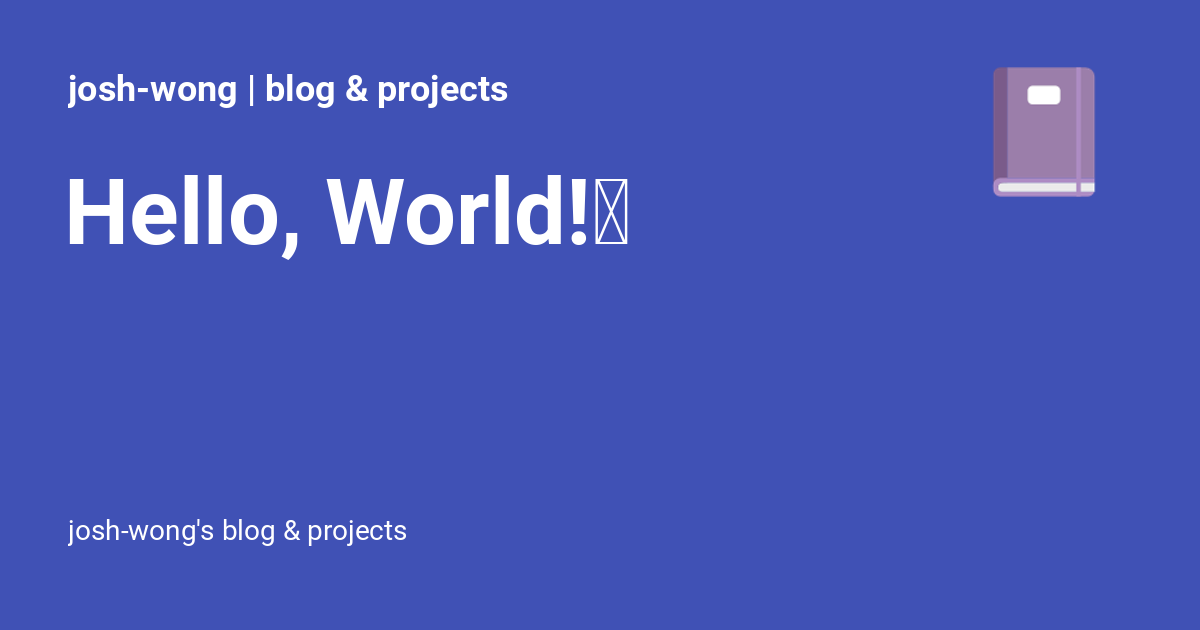
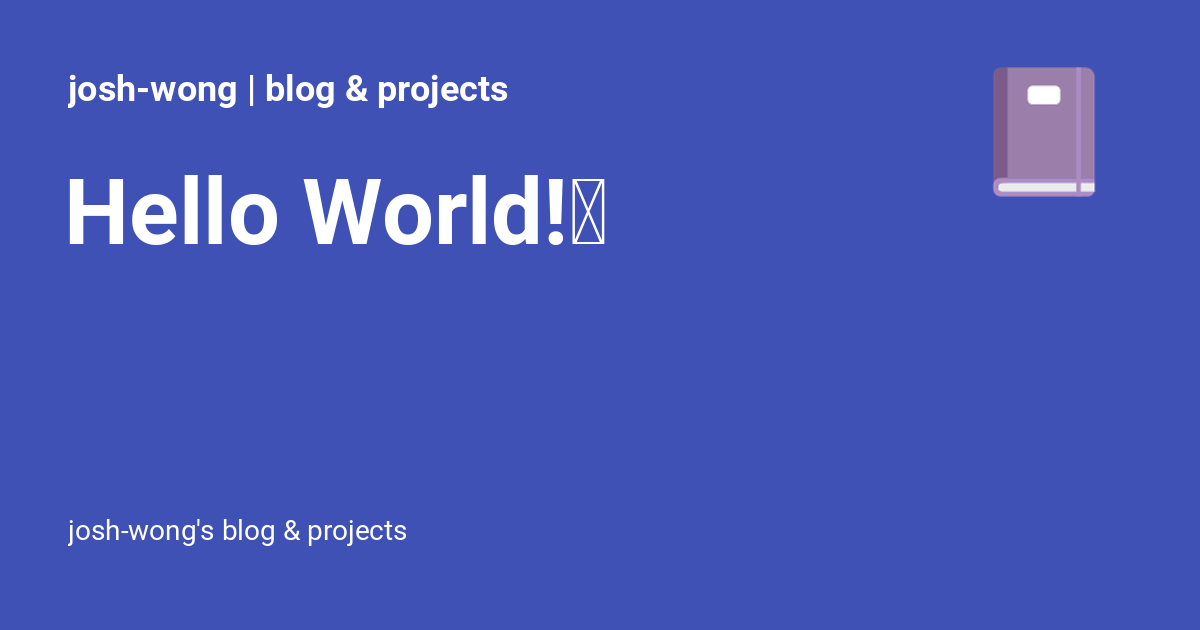
Deployed d260262 with MkDocs version: 1.4.2

Changed region(s): [[0.2158, 0.2714, 0.5242, 0.4222]]

diff --git a/blog/2023/01/month-in-review-december/index.html b/blog/2023/01/month-in-review-december/index.html
@@ -1517,9 +1517,9 @@
 <p><strong>Disclosure:</strong> Some of the links in this post are affiliate links. If you go through those links to make a purchase, I may earn a commission. Note that I only link to products and services if I am actively using them and am greatly satisfied with my experience.</p>
 </div>
 <h2 id="wrote-a-post-for-the-mercari-engineering-blog">Wrote a post for the Mercari Engineering Blog<a class="headerlink" href="#wrote-a-post-for-the-mercari-engineering-blog" title="Permanent link">&para;</a></h2>
-<p>As part of the annual Advent Calendar series of posts on the <a href="https://engineering.mercari.com/en/blog/">Mercari Engineering Blog</a>, I wrote about personal <abbr title="A collection of methods relating to creating, sharing, using, and managing the knowledge and information of an organization">knowledge management</abbr> (<abbr title="A collection of methods relating to creating, sharing, using, and managing knowledge and information for personal growth and benefit &lt;!-- Definition modified from the &quot;knowledge management&quot; Wikipedia article --&gt;">PKM</abbr>):</p>
+<p>As part of the annual Advent Calendar series of posts on the <a href="https://engineering.mercari.com/en/blog/">Mercari Engineering Blog</a>, I wrote about personal <abbr title="A collection of methods relating to creating, sharing, using, and managing the knowledge and information">knowledge management</abbr> (PKM):</p>
 <ul>
-<li><a href="https://engineering.mercari.com/en/blog/entry/20221202-capturing-and-applying-knowledge-through-a-pkm-practice/">Capturing and applying knowledge through a personal <abbr title="A collection of methods relating to creating, sharing, using, and managing the knowledge and information of an organization">knowledge management</abbr> practice</a></li>
+<li><a href="https://engineering.mercari.com/en/blog/entry/20221202-capturing-and-applying-knowledge-through-a-pkm-practice/">Capturing and applying knowledge through a personal <abbr title="A collection of methods relating to creating, sharing, using, and managing the knowledge and information">knowledge management</abbr> practice</a></li>
 </ul>
 <p>Let me know what you think!</p>
 <h2 id="bought-a-washer-and-dryer">Bought a washer and dryer<a class="headerlink" href="#bought-a-washer-and-dryer" title="Permanent link">&para;</a></h2>
@@ -1533,7 +1533,7 @@
 <figure>
 <p><img alt="Panasonic NA-LX127BL-W washer and dryer machine after installation" src="../../../assets/assets/images/2023-01-03-panasonic-na-lx127bl-w-washer-and-dryer-machine.jpg" />
   </p>
-<figcaption>Panasonic NA-LX127BL-W washer and dryer machine after installation</figcaption>
+<figcaption>Panasonic NA-LX127BL-W washer and dryer<br /> machine after installation</figcaption>
 </figure>
 <p>Overall, we're very happy with the Panasonic NA-LX127BL-W washer and dryer machine. We've reduced how much time we spend hang drying clothes and saved a lot of time waiting for those clothes to dry. Our clothes also smell much more pleasant and feel a lot softer!</p>
 <h2 id="tried-resurrecting-a-problematic-hard-drive">Tried resurrecting a problematic hard drive<a class="headerlink" href="#tried-resurrecting-a-problematic-hard-drive" title="Permanent link">&para;</a></h2>
@@ -1572,7 +1572,7 @@
 <figure>
 <p><img alt="Friend's disassembled Western Digital Elements external hard drive" src="../../../assets/assets/images/2023-01-03-western-digital-elements-broken-hard-drive.jpg" />
   </p>
-<figcaption>Friend's disassembled Western Digital Elements external hard drive</figcaption>
+<figcaption>Friend's disassembled Western Digital Elements<br /> external hard drive</figcaption>
 </figure>
 <p>Unfortunately, I was out of ideas to resolve the connection to the faulty hard drive. At this point, the only way to copy the data on the hard drive is to contact a professional who could remove the disk from its enclosure and further troubleshoot the issue.</p>
 <!-- Most of the following definitions are courtesy of Wikipedia, unless otherwise noted. -->

diff --git a/blog/archive/2022/index.html b/blog/archive/2022/index.html
@@ -1482,9 +1482,9 @@
     </div>
   </header>
   <div class="md-post__content md-typeset">
-    <h2 id="key-points-about-knowledge-management-from-the-art-of-readable-code"><a class="toclink" href="../../2022/11/key-points-about-knowledge-management-from-the-art-of-readable-code/">Key points about <abbr title="A collection of methods relating to creating, sharing, using, and managing the knowledge and information of an organization">knowledge management</abbr> from "The Art of Readable Code"</a></h2>
+    <h2 id="key-points-about-knowledge-management-from-the-art-of-readable-code"><a class="toclink" href="../../2022/11/key-points-about-knowledge-management-from-the-art-of-readable-code/">Key points about <abbr title="A collection of methods relating to creating, sharing, using, and managing the knowledge and information">knowledge management</abbr> from "The Art of Readable Code"</a></h2>
 <p>This month, I read <a href="https://amzn.to/3TyC4CJ" target="_blank">The Art of Readable Code: Simple and Practical Techniques for Writing Better Code</a> on Kindle.</p>
-<p><em><strong>I wish I'd read this book years ago.</strong></em> As a <abbr title="A professional information communicator whose task is to transfer information between two or more parties">technical writer</abbr> and <abbr title="A collection of methods relating to creating, sharing, using, and managing the knowledge and information of an organization">knowledge management</abbr> specialist, the first part focuses on <abbr title="A collection of methods relating to creating, sharing, using, and managing the knowledge and information of an organization">knowledge management</abbr> and best practices for <abbr title="Any communicable material that is used to describe, explain or instruct regarding some attributes of an object, system or procedure">documentation</abbr> within code. I found those topics interesting, especially since coding is only a hobby of mine and not a daily work activity.</p>
+<p><em><strong>I wish I'd read this book years ago.</strong></em> As a <abbr title="A professional information communicator whose task is to transfer information between two or more parties">technical writer</abbr> and <abbr title="A collection of methods relating to creating, sharing, using, and managing the knowledge and information">knowledge management</abbr> specialist, the first part focuses on <abbr title="A collection of methods relating to creating, sharing, using, and managing the knowledge and information">knowledge management</abbr> and best practices for <abbr title="Any communicable material that is used to describe, explain or instruct regarding some attributes of an object, system or procedure">documentation</abbr> within code. I found those topics interesting, especially since coding is only a hobby of mine and not a daily work activity.</p>
 
     <nav class="md-post__action">
       <a href="../../2022/11/key-points-about-knowledge-management-from-the-art-of-readable-code/">
@@ -1679,7 +1679,7 @@
     </div>
   </header>
   <div class="md-post__content md-typeset">
-    <h2 id="hello-world"><a class="toclink" href="../../2022/10/hello-world/"><abbr title="A phrase used to illustrate a language's basic syntax when programming">Hello, World</abbr>!🌏</a></h2>
+    <h2 id="hello-world"><a class="toclink" href="../../2022/10/hello-world/"><abbr title="A phrase used to illustrate a language's basic syntax when programming">Hello World</abbr>!🌏</a></h2>
 <p>This is my first blog post!✍🏻</p>
 
     <nav class="md-post__action">

diff --git a/blog/index.html b/blog/index.html
@@ -1522,9 +1522,9 @@
     </div>
   </header>
   <div class="md-post__content md-typeset">
-    <h2 id="key-points-about-knowledge-management-from-the-art-of-readable-code"><a class="toclink" href="2022/11/key-points-about-knowledge-management-from-the-art-of-readable-code/">Key points about <abbr title="A collection of methods relating to creating, sharing, using, and managing the knowledge and information of an organization">knowledge management</abbr> from "The Art of Readable Code"</a></h2>
+    <h2 id="key-points-about-knowledge-management-from-the-art-of-readable-code"><a class="toclink" href="2022/11/key-points-about-knowledge-management-from-the-art-of-readable-code/">Key points about <abbr title="A collection of methods relating to creating, sharing, using, and managing the knowledge and information">knowledge management</abbr> from "The Art of Readable Code"</a></h2>
 <p>This month, I read <a href="https://amzn.to/3TyC4CJ" target="_blank">The Art of Readable Code: Simple and Practical Techniques for Writing Better Code</a> on Kindle.</p>
-<p><em><strong>I wish I'd read this book years ago.</strong></em> As a <abbr title="A professional information communicator whose task is to transfer information between two or more parties">technical writer</abbr> and <abbr title="A collection of methods relating to creating, sharing, using, and managing the knowledge and information of an organization">knowledge management</abbr> specialist, the first part focuses on <abbr title="A collection of methods relating to creating, sharing, using, and managing the knowledge and information of an organization">knowledge management</abbr> and best practices for <abbr title="Any communicable material that is used to describe, explain or instruct regarding some attributes of an object, system or procedure">documentation</abbr> within code. I found those topics interesting, especially since coding is only a hobby of mine and not a daily work activity.</p>
+<p><em><strong>I wish I'd read this book years ago.</strong></em> As a <abbr title="A professional information communicator whose task is to transfer information between two or more parties">technical writer</abbr> and <abbr title="A collection of methods relating to creating, sharing, using, and managing the knowledge and information">knowledge management</abbr> specialist, the first part focuses on <abbr title="A collection of methods relating to creating, sharing, using, and managing the knowledge and information">knowledge management</abbr> and best practices for <abbr title="Any communicable material that is used to describe, explain or instruct regarding some attributes of an object, system or procedure">documentation</abbr> within code. I found those topics interesting, especially since coding is only a hobby of mine and not a daily work activity.</p>
 
     <nav class="md-post__action">
       <a href="2022/11/key-points-about-knowledge-management-from-the-art-of-readable-code/">
@@ -1719,7 +1719,7 @@
     </div>
   </header>
   <div class="md-post__content md-typeset">
-    <h2 id="hello-world"><a class="toclink" href="2022/10/hello-world/"><abbr title="A phrase used to illustrate a language's basic syntax when programming">Hello, World</abbr>!🌏</a></h2>
+    <h2 id="hello-world"><a class="toclink" href="2022/10/hello-world/"><abbr title="A phrase used to illustrate a language's basic syntax when programming">Hello World</abbr>!🌏</a></h2>
 <p>This is my first blog post!✍🏻</p>
 
     <nav class="md-post__action">

diff --git a/blog/category/books/index.html b/blog/category/books/index.html
@@ -1431,9 +1431,9 @@
     </div>
   </header>
   <div class="md-post__content md-typeset">
-    <h2 id="key-points-about-knowledge-management-from-the-art-of-readable-code"><a class="toclink" href="../../2022/11/key-points-about-knowledge-management-from-the-art-of-readable-code/">Key points about <abbr title="A collection of methods relating to creating, sharing, using, and managing the knowledge and information of an organization">knowledge management</abbr> from "The Art of Readable Code"</a></h2>
+    <h2 id="key-points-about-knowledge-management-from-the-art-of-readable-code"><a class="toclink" href="../../2022/11/key-points-about-knowledge-management-from-the-art-of-readable-code/">Key points about <abbr title="A collection of methods relating to creating, sharing, using, and managing the knowledge and information">knowledge management</abbr> from "The Art of Readable Code"</a></h2>
 <p>This month, I read <a href="https://amzn.to/3TyC4CJ" target="_blank">The Art of Readable Code: Simple and Practical Techniques for Writing Better Code</a> on Kindle.</p>
-<p><em><strong>I wish I'd read this book years ago.</strong></em> As a <abbr title="A professional information communicator whose task is to transfer information between two or more parties">technical writer</abbr> and <abbr title="A collection of methods relating to creating, sharing, using, and managing the knowledge and information of an organization">knowledge management</abbr> specialist, the first part focuses on <abbr title="A collection of methods relating to creating, sharing, using, and managing the knowledge and information of an organization">knowledge management</abbr> and best practices for <abbr title="Any communicable material that is used to describe, explain or instruct regarding some attributes of an object, system or procedure">documentation</abbr> within code. I found those topics interesting, especially since coding is only a hobby of mine and not a daily work activity.</p>
+<p><em><strong>I wish I'd read this book years ago.</strong></em> As a <abbr title="A professional information communicator whose task is to transfer information between two or more parties">technical writer</abbr> and <abbr title="A collection of methods relating to creating, sharing, using, and managing the knowledge and information">knowledge management</abbr> specialist, the first part focuses on <abbr title="A collection of methods relating to creating, sharing, using, and managing the knowledge and information">knowledge management</abbr> and best practices for <abbr title="Any communicable material that is used to describe, explain or instruct regarding some attributes of an object, system or procedure">documentation</abbr> within code. I found those topics interesting, especially since coding is only a hobby of mine and not a daily work activity.</p>
 
     <nav class="md-post__action">
       <a href="../../2022/11/key-points-about-knowledge-management-from-the-art-of-readable-code/">

diff --git a/blog/category/documentation/index.html b/blog/category/documentation/index.html
@@ -1431,9 +1431,9 @@
     </div>
   </header>
   <div class="md-post__content md-typeset">
-    <h2 id="key-points-about-knowledge-management-from-the-art-of-readable-code"><a class="toclink" href="../../2022/11/key-points-about-knowledge-management-from-the-art-of-readable-code/">Key points about <abbr title="A collection of methods relating to creating, sharing, using, and managing the knowledge and information of an organization">knowledge management</abbr> from "The Art of Readable Code"</a></h2>
+    <h2 id="key-points-about-knowledge-management-from-the-art-of-readable-code"><a class="toclink" href="../../2022/11/key-points-about-knowledge-management-from-the-art-of-readable-code/">Key points about <abbr title="A collection of methods relating to creating, sharing, using, and managing the knowledge and information">knowledge management</abbr> from "The Art of Readable Code"</a></h2>
 <p>This month, I read <a href="https://amzn.to/3TyC4CJ" target="_blank">The Art of Readable Code: Simple and Practical Techniques for Writing Better Code</a> on Kindle.</p>
-<p><em><strong>I wish I'd read this book years ago.</strong></em> As a <abbr title="A professional information communicator whose task is to transfer information between two or more parties">technical writer</abbr> and <abbr title="A collection of methods relating to creating, sharing, using, and managing the knowledge and information of an organization">knowledge management</abbr> specialist, the first part focuses on <abbr title="A collection of methods relating to creating, sharing, using, and managing the knowledge and information of an organization">knowledge management</abbr> and best practices for <abbr title="Any communicable material that is used to describe, explain or instruct regarding some attributes of an object, system or procedure">documentation</abbr> within code. I found those topics interesting, especially since coding is only a hobby of mine and not a daily work activity.</p>
+<p><em><strong>I wish I'd read this book years ago.</strong></em> As a <abbr title="A professional information communicator whose task is to transfer information between two or more parties">technical writer</abbr> and <abbr title="A collection of methods relating to creating, sharing, using, and managing the knowledge and information">knowledge management</abbr> specialist, the first part focuses on <abbr title="A collection of methods relating to creating, sharing, using, and managing the knowledge and information">knowledge management</abbr> and best practices for <abbr title="Any communicable material that is used to describe, explain or instruct regarding some attributes of an object, system or procedure">documentation</abbr> within code. I found those topics interesting, especially since coding is only a hobby of mine and not a daily work activity.</p>
 
     <nav class="md-post__action">
       <a href="../../2022/11/key-points-about-knowledge-management-from-the-art-of-readable-code/">

diff --git a/blog/category/knowledge-management/index.html b/blog/category/knowledge-management/index.html
@@ -1478,9 +1478,9 @@
     </div>
   </header>
   <div class="md-post__content md-typeset">
-    <h2 id="key-points-about-knowledge-management-from-the-art-of-readable-code"><a class="toclink" href="../../2022/11/key-points-about-knowledge-management-from-the-art-of-readable-code/">Key points about <abbr title="A collection of methods relating to creating, sharing, using, and managing the knowledge and information of an organization">knowledge management</abbr> from "The Art of Readable Code"</a></h2>
+    <h2 id="key-points-about-knowledge-management-from-the-art-of-readable-code"><a class="toclink" href="../../2022/11/key-points-about-knowledge-management-from-the-art-of-readable-code/">Key points about <abbr title="A collection of methods relating to creating, sharing, using, and managing the knowledge and information">knowledge management</abbr> from "The Art of Readable Code"</a></h2>
 <p>This month, I read <a href="https://amzn.to/3TyC4CJ" target="_blank">The Art of Readable Code: Simple and Practical Techniques for Writing Better Code</a> on Kindle.</p>
-<p><em><strong>I wish I'd read this book years ago.</strong></em> As a <abbr title="A professional information communicator whose task is to transfer information between two or more parties">technical writer</abbr> and <abbr title="A collection of methods relating to creating, sharing, using, and managing the knowledge and information of an organization">knowledge management</abbr> specialist, the first part focuses on <abbr title="A collection of methods relating to creating, sharing, using, and managing the knowledge and information of an organization">knowledge management</abbr> and best practices for <abbr title="Any communicable material that is used to describe, explain or instruct regarding some attributes of an object, system or procedure">documentation</abbr> within code. I found those topics interesting, especially since coding is only a hobby of mine and not a daily work activity.</p>
+<p><em><strong>I wish I'd read this book years ago.</strong></em> As a <abbr title="A professional information communicator whose task is to transfer information between two or more parties">technical writer</abbr> and <abbr title="A collection of methods relating to creating, sharing, using, and managing the knowledge and information">knowledge management</abbr> specialist, the first part focuses on <abbr title="A collection of methods relating to creating, sharing, using, and managing the knowledge and information">knowledge management</abbr> and best practices for <abbr title="Any communicable material that is used to describe, explain or instruct regarding some attributes of an object, system or procedure">documentation</abbr> within code. I found those topics interesting, especially since coding is only a hobby of mine and not a daily work activity.</p>
 
     <nav class="md-post__action">
       <a href="../../2022/11/key-points-about-knowledge-management-from-the-art-of-readable-code/">

diff --git a/blog/category/software-engineering/index.html b/blog/category/software-engineering/index.html
@@ -1431,9 +1431,9 @@
     </div>
   </header>
   <div class="md-post__content md-typeset">
-    <h2 id="key-points-about-knowledge-management-from-the-art-of-readable-code"><a class="toclink" href="../../2022/11/key-points-about-knowledge-management-from-the-art-of-readable-code/">Key points about <abbr title="A collection of methods relating to creating, sharing, using, and managing the knowledge and information of an organization">knowledge management</abbr> from "The Art of Readable Code"</a></h2>
+    <h2 id="key-points-about-knowledge-management-from-the-art-of-readable-code"><a class="toclink" href="../../2022/11/key-points-about-knowledge-management-from-the-art-of-readable-code/">Key points about <abbr title="A collection of methods relating to creating, sharing, using, and managing the knowledge and information">knowledge management</abbr> from "The Art of Readable Code"</a></h2>
 <p>This month, I read <a href="https://amzn.to/3TyC4CJ" target="_blank">The Art of Readable Code: Simple and Practical Techniques for Writing Better Code</a> on Kindle.</p>
-<p><em><strong>I wish I'd read this book years ago.</strong></em> As a <abbr title="A professional information communicator whose task is to transfer information between two or more parties">technical writer</abbr> and <abbr title="A collection of methods relating to creating, sharing, using, and managing the knowledge and information of an organization">knowledge management</abbr> specialist, the first part focuses on <abbr title="A collection of methods relating to creating, sharing, using, and managing the knowledge and information of an organization">knowledge management</abbr> and best practices for <abbr title="Any communicable material that is used to describe, explain or instruct regarding some attributes of an object, system or procedure">documentation</abbr> within code. I found those topics interesting, especially since coding is only a hobby of mine and not a daily work activity.</p>
+<p><em><strong>I wish I'd read this book years ago.</strong></em> As a <abbr title="A professional information communicator whose task is to transfer information between two or more parties">technical writer</abbr> and <abbr title="A collection of methods relating to creating, sharing, using, and managing the knowledge and information">knowledge management</abbr> specialist, the first part focuses on <abbr title="A collection of methods relating to creating, sharing, using, and managing the knowledge and information">knowledge management</abbr> and best practices for <abbr title="Any communicable material that is used to describe, explain or instruct regarding some attributes of an object, system or procedure">documentation</abbr> within code. I found those topics interesting, especially since coding is only a hobby of mine and not a daily work activity.</p>
 
     <nav class="md-post__action">
       <a href="../../2022/11/key-points-about-knowledge-management-from-the-art-of-readable-code/">

diff --git a/blog/2022/11/key-points-about-knowledge-management-from-the-art-of-readable-code/index.html b/blog/2022/11/key-points-about-knowledge-management-from-the-art-of-readable-code/index.html
@@ -1550,9 +1550,9 @@
 
 
 
-<h1 id="key-points-about-knowledge-management-from-the-art-of-readable-code">Key points about <abbr title="A collection of methods relating to creating, sharing, using, and managing the knowledge and information of an organization">knowledge management</abbr> from "The Art of Readable Code"<a class="headerlink" href="#key-points-about-knowledge-management-from-the-art-of-readable-code" title="Permanent link">&para;</a></h1>
+<h1 id="key-points-about-knowledge-management-from-the-art-of-readable-code">Key points about <abbr title="A collection of methods relating to creating, sharing, using, and managing the knowledge and information">knowledge management</abbr> from "The Art of Readable Code"<a class="headerlink" href="#key-points-about-knowledge-management-from-the-art-of-readable-code" title="Permanent link">&para;</a></h1>
 <p>This month, I read <a href="https://amzn.to/3TyC4CJ" target="_blank">The Art of Readable Code: Simple and Practical Techniques for Writing Better Code</a> on Kindle.</p>
-<p><em><strong>I wish I'd read this book years ago.</strong></em> As a <abbr title="A professional information communicator whose task is to transfer information between two or more parties">technical writer</abbr> and <abbr title="A collection of methods relating to creating, sharing, using, and managing the knowledge and information of an organization">knowledge management</abbr> specialist, the first part focuses on <abbr title="A collection of methods relating to creating, sharing, using, and managing the knowledge and information of an organization">knowledge management</abbr> and best practices for <abbr title="Any communicable material that is used to describe, explain or instruct regarding some attributes of an object, system or procedure">documentation</abbr> within code. I found those topics interesting, especially since coding is only a hobby of mine and not a daily work activity.</p>
+<p><em><strong>I wish I'd read this book years ago.</strong></em> As a <abbr title="A professional information communicator whose task is to transfer information between two or more parties">technical writer</abbr> and <abbr title="A collection of methods relating to creating, sharing, using, and managing the knowledge and information">knowledge management</abbr> specialist, the first part focuses on <abbr title="A collection of methods relating to creating, sharing, using, and managing the knowledge and information">knowledge management</abbr> and best practices for <abbr title="Any communicable material that is used to describe, explain or instruct regarding some attributes of an object, system or procedure">documentation</abbr> within code. I found those topics interesting, especially since coding is only a hobby of mine and not a daily work activity.</p>
 <!-- more -->
 
 <div class="admonition info">

diff --git a/blog/2022/10/hello-world/index.html b/blog/2022/10/hello-world/index.html
@@ -27,7 +27,7 @@
     
     
       
-        <title>Hello, World!🌏 - josh-wong | blog & projects</title>
+        <title>Hello World!🌏 - josh-wong | blog & projects</title>
       
     
     
@@ -114,7 +114,7 @@
       
         <meta  property="og:type"  content="website" >
       
-        <meta  property="og:title"  content="Hello, World!🌏 - josh-wong | blog & projects" >
+        <meta  property="og:title"  content="Hello World!🌏 - josh-wong | blog & projects" >
       
         <meta  property="og:description"  content="josh-wong's blog & projects" >
       
@@ -130,7 +130,7 @@
       
         <meta  name="twitter:card"  content="summary_large_image" >
       
-        <meta  name="twitter:title"  content="Hello, World!🌏 - josh-wong | blog & projects" >
+        <meta  name="twitter:title"  content="Hello World!🌏 - josh-wong | blog & projects" >
       
         <meta  name="twitter:description"  content="josh-wong's blog & projects" >
       
@@ -207,7 +207,7 @@
         <div class="md-header__topic" data-md-component="header-topic">
           <span class="md-ellipsis">
             
-              Hello, World!🌏
+              Hello World!🌏
             
           </span>
         </div>
@@ -1465,7 +1465,7 @@
 
 
 
-<h1 id="hello-world"><abbr title="A phrase used to illustrate a language's basic syntax when programming">Hello, World</abbr>!🌏<a class="headerlink" href="#hello-world" title="Permanent link">&para;</a></h1>
+<h1 id="hello-world"><abbr title="A phrase used to illustrate a language's basic syntax when programming">Hello World</abbr>!🌏<a class="headerlink" href="#hello-world" title="Permanent link">&para;</a></h1>
 <p>This is my first blog post!✍🏻</p>
 <!-- Most of the following definitions are courtesy of Wikipedia, unless otherwise noted. -->
 

diff --git a/about/index.html b/about/index.html
@@ -1486,7 +1486,7 @@
 
 <h1 id="about-me">About me<a class="headerlink" href="#about-me" title="Permanent link">&para;</a></h1>
 <p><img align="right" alt="Image title" src="https://github.com/josh-wong.png" width="150" /></p>
-<p>Hey there! My name is <strong><abbr title="A technical writer and knowledge management specialist living and working in Tokyo🗼🗾">Josh</abbr></strong>, and I'm a <abbr title="A professional information communicator whose task is to transfer information between two or more parties">technical writer</abbr> and <abbr title="A collection of methods relating to creating, sharing, using, and managing the knowledge and information of an organization">knowledge management</abbr> specialist living and working in Tokyo🗼🗾</p>
+<p>Hey there! My name is <strong><abbr title="A technical writer and knowledge management specialist living and working in Tokyo🗼🗾">Josh</abbr></strong>, and I'm a <abbr title="A professional information communicator whose task is to transfer information between two or more parties">technical writer</abbr> and <abbr title="A collection of methods relating to creating, sharing, using, and managing the knowledge and information">knowledge management</abbr> specialist living and working in Tokyo🗼🗾</p>
 <p>I enjoy writing, improving user experiences, learning new things, and sharing knowledge💡</p>
 <h2 id="why-080f53com">Why <code>080f53.com</code>?<a class="headerlink" href="#why-080f53com" title="Permanent link">&para;</a></h2>
 <p>I like the hex color <a href="https://encycolorpedia.com/080f53" target="_blank"><strong>#<abbr title="A dark blue-violet color in the hex format">080f53</abbr></strong></a>, which is dark blue-violet.</p>

diff --git a/blog/category/hello-world/index.html b/blog/category/hello-world/index.html
@@ -1428,7 +1428,7 @@
     </div>
   </header>
   <div class="md-post__content md-typeset">
-    <h2 id="hello-world"><a class="toclink" href="../../2022/10/hello-world/"><abbr title="A phrase used to illustrate a language's basic syntax when programming">Hello, World</abbr>!🌏</a></h2>
+    <h2 id="hello-world"><a class="toclink" href="../../2022/10/hello-world/"><abbr title="A phrase used to illustrate a language's basic syntax when programming">Hello World</abbr>!🌏</a></h2>
 <p>This is my first blog post!✍🏻</p>
 
     <nav class="md-post__action">
